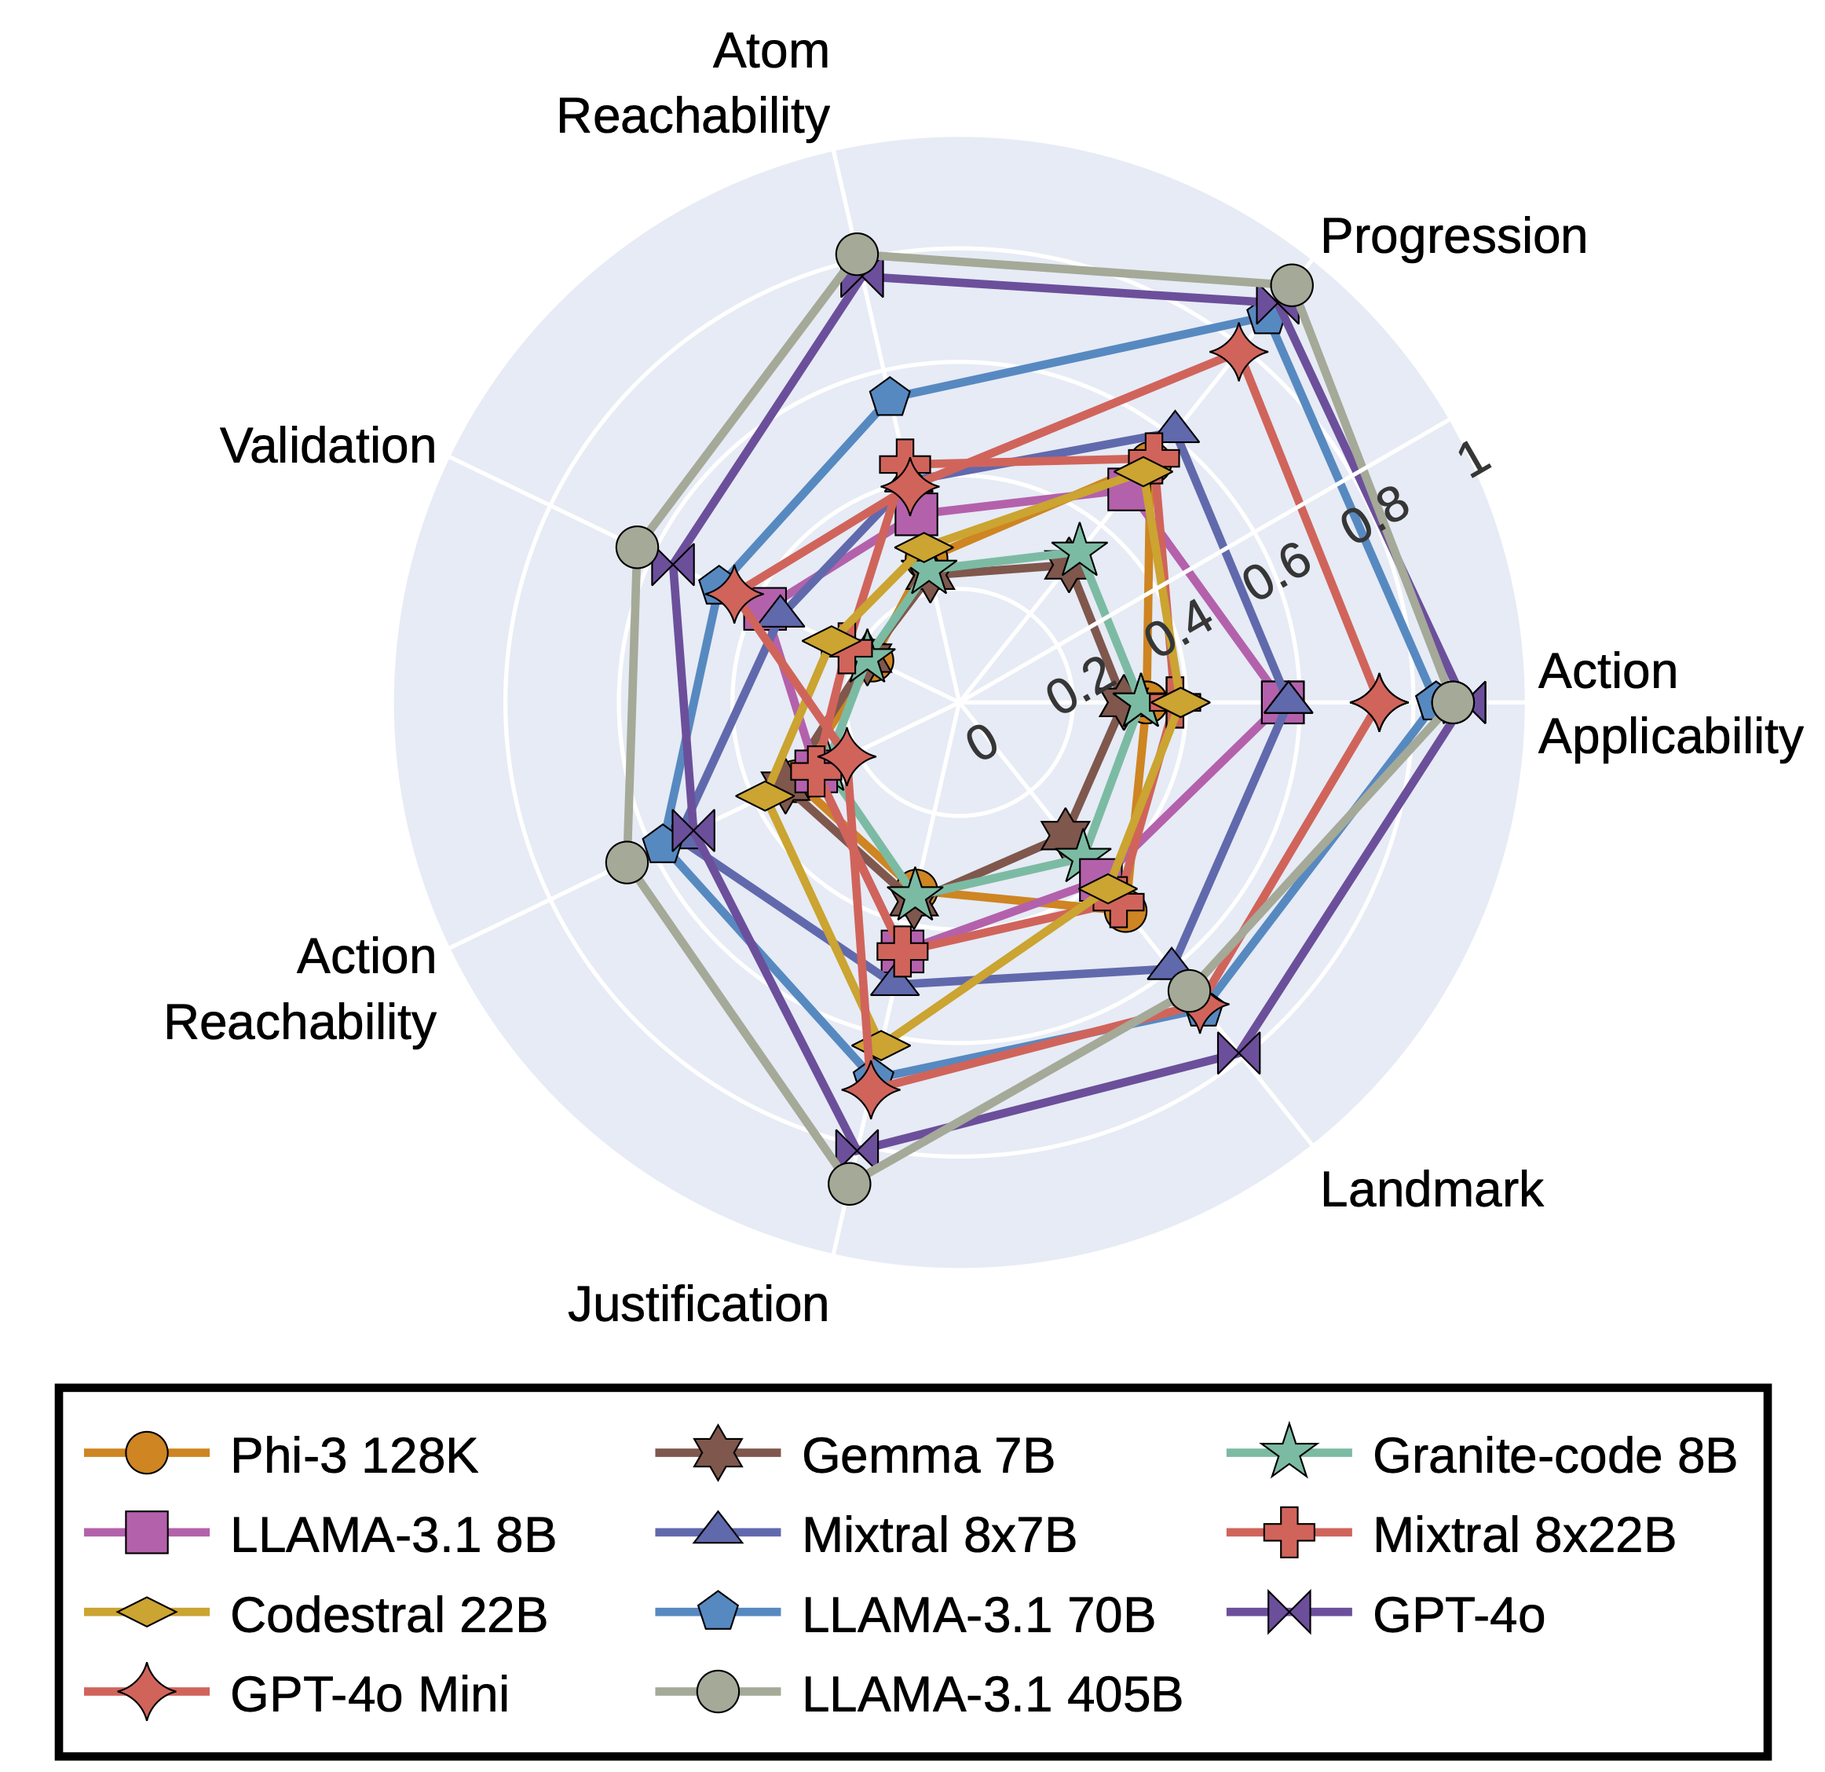
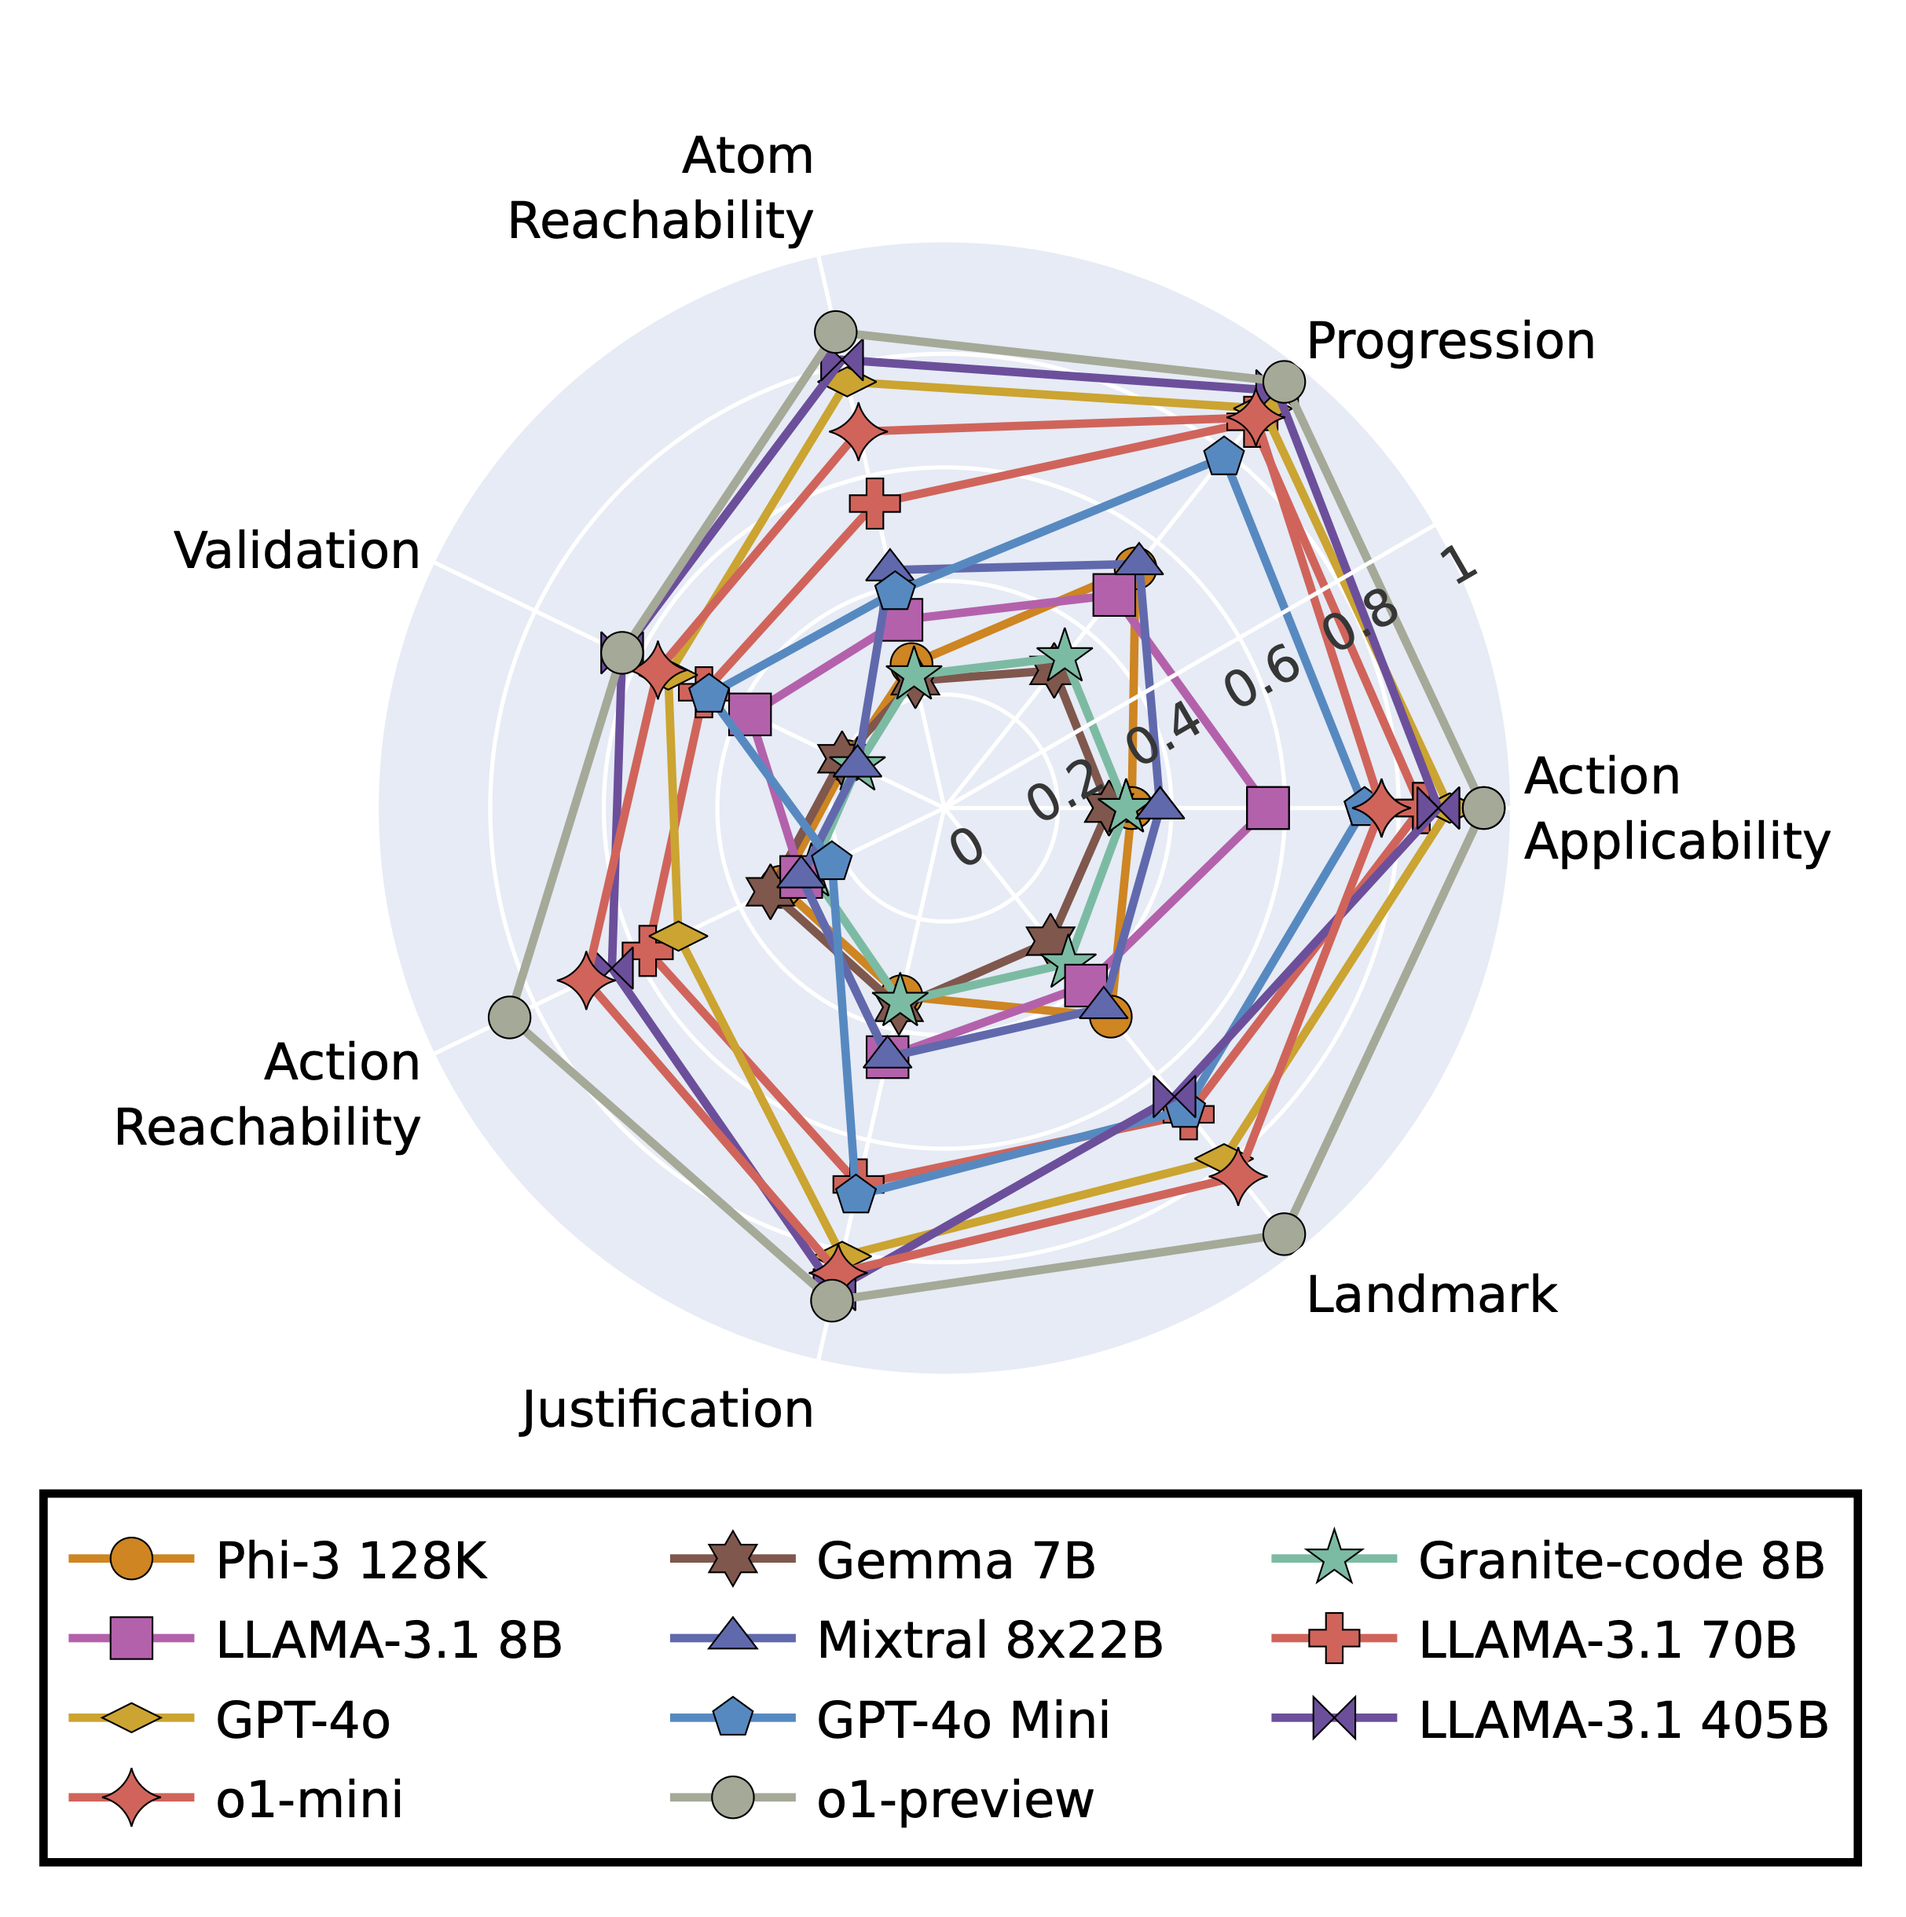
Adding o1 results

diff --git a/blog.html b/blog.html
@@ -219,12 +219,13 @@ These datasets evaluate a range of reasoning skills, including common-sense reas
 
               This emerging area of research holds tremendous promise, with potential applications spanning multiple fields. Imagine LLMs capable of autonomously managing business processes, planning a trip, or even managing and analyzing data to provide timely insights.
               
-              However, despite the excitement surrounding this development, there is a significant gap in our understanding of LLMs' planning capabilities. To fully harness their potential, we need a more systematic evaluation of their strengths and limitations in these areas. By bridging this knowledge gap, we can unlock the true potential of LLMs and unlock a new era of  planning in natural language.
+              However, despite the excitement surrounding this development, there is a significant gap in our understanding of LLMs' planning capabilities.
             </p>
           </div>
           <div class="content has-text-justified ">
             <p>
-              To this end, we introduce <span style="color:#ff6864;font-weight:600">ACP Bench</span>. A question-answering style dataset that evaluates AI-model's ability to reason about <span style="color:#ff6864;">action, change, and planning</span>. 
+              To this end, we introduce <span style="color:#ff6864;font-weight:600">ACP Bench</span>. A question-answering style dataset that evaluates AI-model's ability to reason about <span style="color:#ff6864;">Action, Change, and Planning</span>. 
+              To fully harness LLMs' potential for planning, ACPBench performs a more systematic evaluation of their strengths and limitations in tasks that are central to planning, indeed not being able to perform these tasks perfectly precludes the ability formulate plans.
             </p>
           </div>
         </div>
@@ -331,7 +332,7 @@ In the realm of LLMs and API workflows, it is desirable to avoid calling unneces
     <section class="hero is-light is-small">
       <div class="hero-body has-text-centered">
         <h1 class="title is-1 subsection is-light ">
-          <span class="subsection" style="vertical-align: middle">Experimental Results</span>
+          <span class="subsection" style="vertical-align: middle"> LLMs' Performance Evaluation</span>
         </h1>
       </div>
     </section>
@@ -346,7 +347,7 @@ In the realm of LLMs and API workflows, it is desirable to avoid calling unneces
             <div class="content  is-centered ">
     
               <img src="static/images/acp_mcq_results.png" alt="data-overview" style="max-width: 100%;">
-              <p>Accuracy of leading LLMs on 7 ACPBench tasks (boolean as well as multi-choice questions). The best results are <b>boldfaced</b>, second best are <u>underlined</u>, and the best among the small, open-sourced models are highlighted with *. All models were evaluated with two in-context examples and Chain-of-Thought prompt. The right-most column is mean across tasks.
+              <p>Accuracy of 22 leading LLMs on 7 ACPBench tasks (boolean as well as multi-choice questions). The best results are <b>boldfaced</b>, second best are <u>underlined</u>, and the best among the small, open-sourced models are highlighted with *. All models were evaluated with two in-context examples and Chain-of-Thought prompt. The right-most column is mean across tasks.
               </p>
             </div>
           </div>
@@ -374,6 +375,8 @@ In the realm of LLMs and API workflows, it is desirable to avoid calling unneces
         </div>
       </div>
     </section>
+
+
 
 
     <section class="hero is-small">
@@ -416,6 +419,51 @@ In the realm of LLMs and API workflows, it is desirable to avoid calling unneces
       </div>
     </section>
 
+            <!-- Experimental Results -->
+            <section class="hero is-light is-small">
+              <div class="hero-body has-text-centered" id="o1">
+                <h1 class="title is-1 subsection is-light " >
+                  <span class="subsection" style="vertical-align: middle"> OpenAI o1 Performance Evaluation</span>
+                </h1>
+              </div>
+            </section>
+    
+            
+            <section class="section">
+              <div class="container">
+                <div class="columns is-centered has-text-centered">
+                  <div class="column is-four-fifths">
+                    <div class="content has-text-justified">
+                      <p>
+                        Recently, <a href="https://openai.com/index/learning-to-reason-with-llms/">OpenAI released a series of LLM-based reasoning models, o1</a>, that shows significant boost over GPT-4o on benchmarks that require reasoning. A comparison of o1 with LLMs is not even-handed as o1 uses multiple interactions and generates much more tokens than the max-limit provided to LLMs (see sec 4.4 in the paper). So we do not include it in the LLMs' Performance Evaluation. Instead, we present the performance difference of OpenAI o1 models (with zeroshot IO and 2-shot COT prompts) from the best performing LLMs. Our results indicate that o1 models fail to yield performance gains for boolean questions, but demonstrate notable improvements on MCQs. Specifically, o1 preview consistently performs better or equal to the best performing model for MCQs. 
+                      </p>
+                    </div>
+                    <div class="columns is-centered m-6">
+                      <div class="column is-full has-text-centered content">
+                              
+                  
+                        <div class="container is-max-desktop content">
+                            
+                          <div class="content  is-centered ">
+                  
+                            <img src="static/images/o1_perf.png" alt="data-overview">
+                            <p>Comparing OpenAI o1 models with the best LLM. Positive difference shows o1 model performing better than the best of the LLMs. Negative difference is when o1 model lags behind the best LLM.</p>
+                          </div>
+                        </div>
+                      </div>
+                    </div>
+                    <div class="content box has-text-justified">
+                      <span style="color:#ff6864;font-weight:600">
+                        Our findings with OpenAI o1, a multi-turn reasoning
+model, reveal significant gains in performance on multiple-
+choice questions, yet surprisingly, no notable progress is made
+on boolean questions.
+                      </span>
+                    </div>
+                  </div>
+                </div>
+              </div>
+            </section>
 
 
   <!-- @PAN TODO: bibtex -->

diff --git a/index.html b/index.html
@@ -188,7 +188,7 @@
           <div class="content has-text-centered" style="border">
             <img src="static/images/introplot.png" alt="data-overview" style="width: 60%;" />
             <p>
-              Performance of few typical LLMs over different tasks in ACPBench. While the largest LLMs achieve more than 80% accuracy on few tasks, the variance in performance across tasks and
+              Performance of few SOTA LLMs and OpenAI o1 over different tasks in ACPBench. While the largest LLMs achieve more than 80% accuracy on few tasks, the variance in performance across tasks and
 across LLMs is still big. This signifies the long way to go before they can be reliably used in practical scenarios.
             </p>
           </div>
